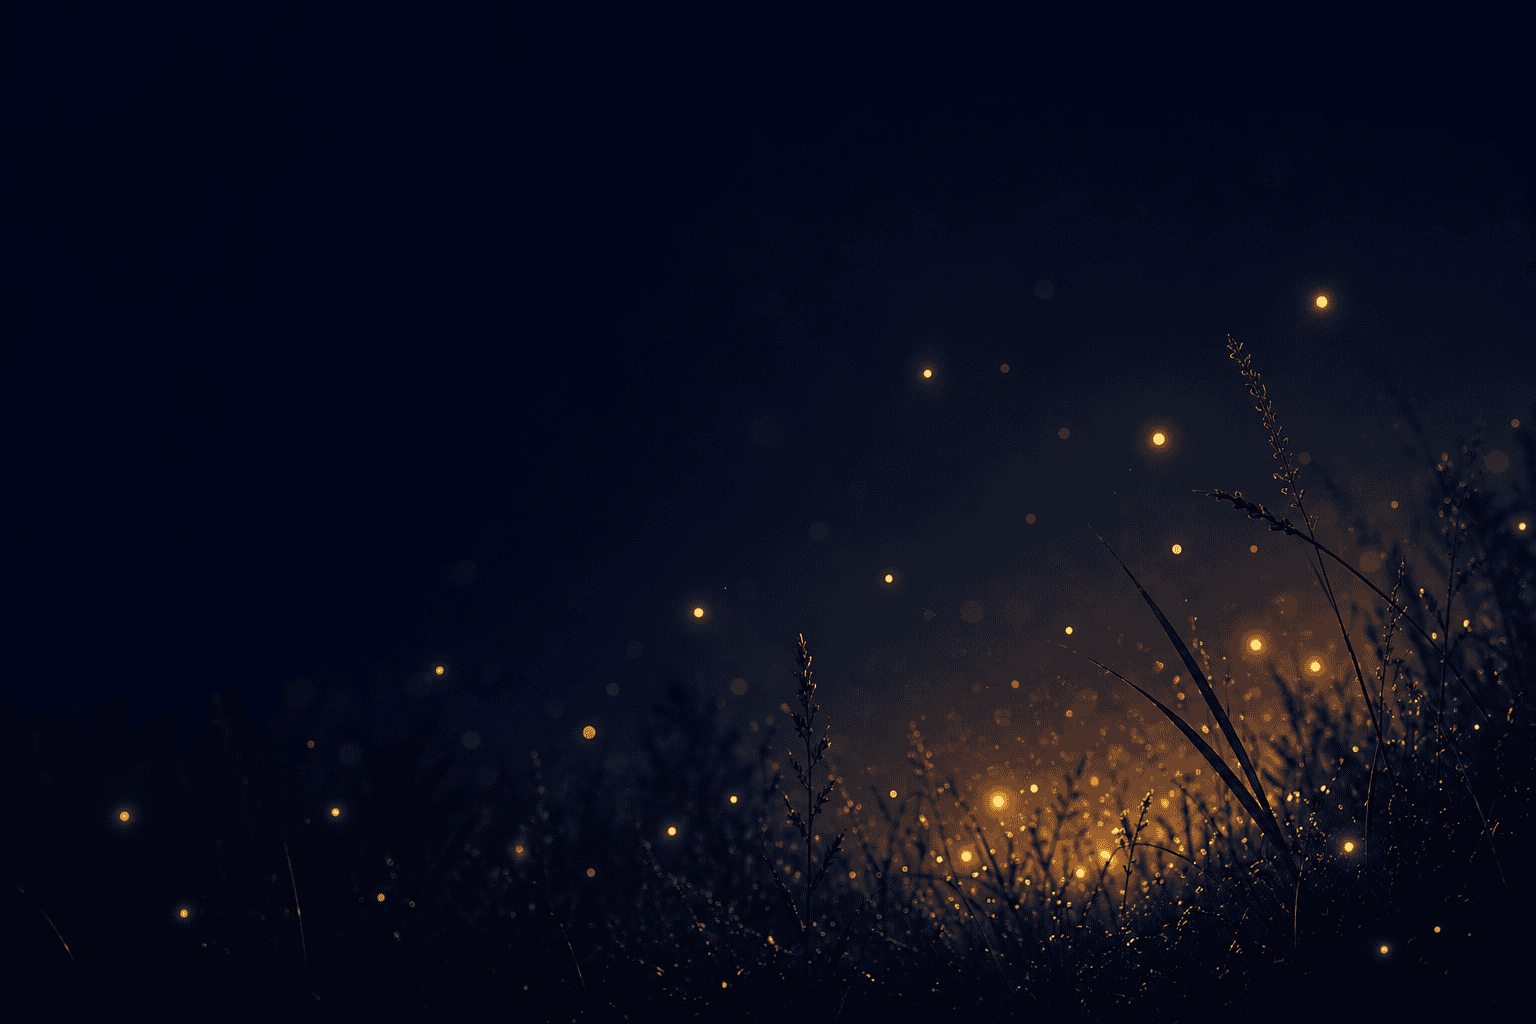
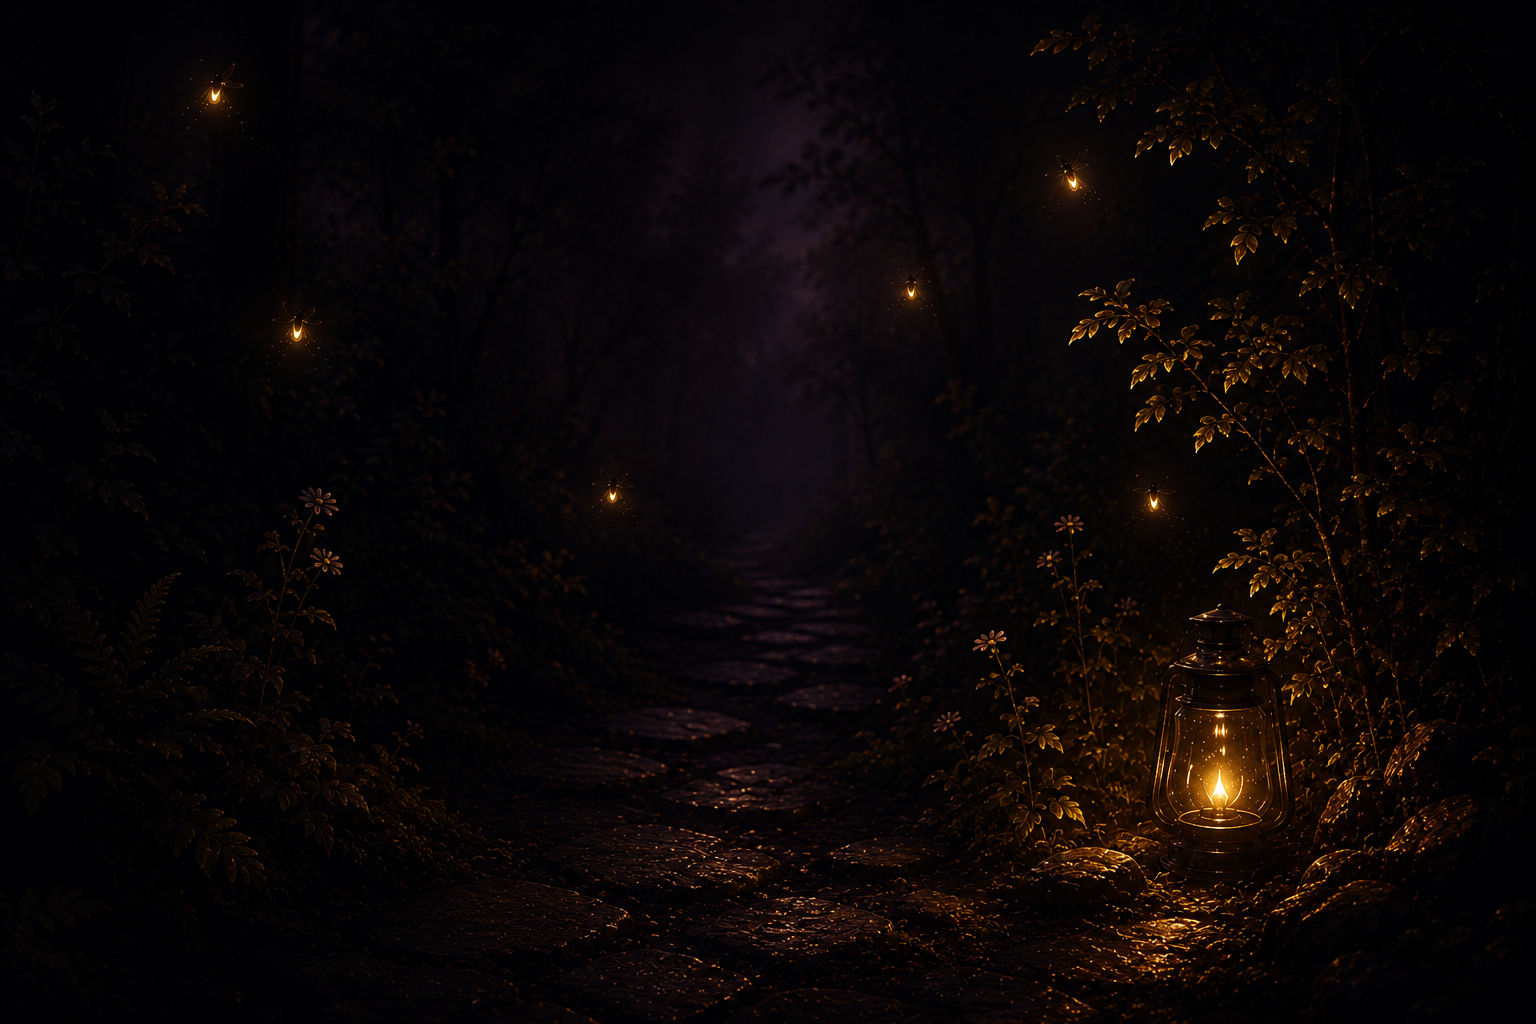
add bg image to pages

diff --git a/app/components/About.tsx b/app/components/About.tsx
@@ -1,17 +1,8 @@
 "use client";
 
 import Box from "@mui/material/Box";
-import Chip from "@mui/material/Chip";
 import Container from "@mui/material/Container";
 import Typography from "@mui/material/Typography";
-
-
-const skills = [
-  "Web Design",
-  "Branding",
-  "Google Business Profiles",
-  "Ongoing Support"
-];
 
 export default function About() {
   return (
@@ -51,34 +42,9 @@ export default function About() {
           Beautiful websites backed by strategy and support
         </Typography>
 
-        <Box
-          className="reveal"
-          style={{ transitionDelay: "0.2s" }}
-          sx={{
-            display: "flex",
-            flexWrap: "wrap",
-            gap: 1.25,
-            mb: 4,
-            justifyContent: "center",
-          }}
-        >
-          {skills.map((skill) => (
-            <Chip
-              key={skill}
-              label={skill}
-              variant="outlined"
-              sx={{
-                height: 26,
-                borderWidth: "0.5px",
-                "& .MuiChip-label": { px: 1.25 },
-              }}
-            />
-          ))}
-        </Box>
-
         <Typography
           className="reveal"
-          style={{ transitionDelay: "0.3s" }}
+          style={{ transitionDelay: "0.2s" }}
           sx={{
             color: "grey.300",
             fontSize: { xs: "17px", md: "21px" },

diff --git a/app/contact/page.tsx b/app/contact/page.tsx
@@ -12,6 +12,7 @@ import AccessTimeOutlined from "@mui/icons-material/AccessTimeOutlined";
 import EmailOutlined from "@mui/icons-material/EmailOutlined";
 import Footer from "../components/Footer";
 import ResponsiveMenu from "../components/ResponsiveMenu";
+import leafBg from "../images/leaf-bg.webp";
 
 const EMAIL_REGEX = /^[^\s@]+@[^\s@]+\.[^\s@]+$/;
 
@@ -133,6 +134,24 @@ export default function ContactPage() {
           },
         }}
       >
+        {/* Ambient leaf shadow texture */}
+        <Box
+          aria-hidden
+          sx={{
+            position: "absolute",
+            inset: 0,
+            backgroundImage: `url(${leafBg.src})`,
+            backgroundSize: "cover",
+            backgroundPosition: "center 35%",
+            opacity: { xs: 0.14, md: 0.2 },
+            maskImage:
+              "linear-gradient(180deg, transparent 0%, black 25%, black 75%, transparent 100%)",
+            WebkitMaskImage:
+              "linear-gradient(180deg, transparent 0%, black 25%, black 75%, transparent 100%)",
+            pointerEvents: "none",
+          }}
+        />
+
         <Container sx={{ maxWidth: "680px !important", position: "relative", zIndex: 1 }}>
           <Typography
             component="span"

diff --git a/app/services/business-essentials/page.tsx b/app/services/business-essentials/page.tsx
@@ -14,6 +14,7 @@ import ResponsiveMenu from "../../components/ResponsiveMenu";
 import Footer from "../../components/Footer";
 import SectionDivider from "../../components/SectionDivider";
 import { pageMetadata } from "../../lib/seo";
+import leafBg from "../../images/leaf-bg.webp";
 
 export const metadata: Metadata = pageMetadata({
   title: "Business Essentials for Small Businesses",
@@ -118,6 +119,24 @@ export default function PromotionalMaterialsPage() {
           },
         }}
       >
+        {/* Ambient leaf shadow texture */}
+        <Box
+          aria-hidden
+          sx={{
+            position: "absolute",
+            inset: 0,
+            backgroundImage: `url(${leafBg.src})`,
+            backgroundSize: "cover",
+            backgroundPosition: "center 35%",
+            opacity: { xs: 0.14, md: 0.2 },
+            maskImage:
+              "linear-gradient(180deg, transparent 0%, black 25%, black 75%, transparent 100%)",
+            WebkitMaskImage:
+              "linear-gradient(180deg, transparent 0%, black 25%, black 75%, transparent 100%)",
+            pointerEvents: "none",
+          }}
+        />
+
         <Container sx={{ maxWidth: "900px !important", position: "relative", zIndex: 1 }}>
           <Link
             href="/#services"

diff --git a/app/services/logo-branding/page.tsx b/app/services/logo-branding/page.tsx
@@ -14,6 +14,7 @@ import ResponsiveMenu from "../../components/ResponsiveMenu";
 import Footer from "../../components/Footer";
 import SectionDivider from "../../components/SectionDivider";
 import { pageMetadata } from "../../lib/seo";
+import leafBg from "../../images/leaf-bg.webp";
 
 export const metadata: Metadata = pageMetadata({
   title: "Logo Design & Branding for Small Businesses",
@@ -118,6 +119,24 @@ export default function LogoBrandingPage() {
           },
         }}
       >
+        {/* Ambient leaf shadow texture */}
+        <Box
+          aria-hidden
+          sx={{
+            position: "absolute",
+            inset: 0,
+            backgroundImage: `url(${leafBg.src})`,
+            backgroundSize: "cover",
+            backgroundPosition: "center 35%",
+            opacity: { xs: 0.14, md: 0.2 },
+            maskImage:
+              "linear-gradient(180deg, transparent 0%, black 25%, black 75%, transparent 100%)",
+            WebkitMaskImage:
+              "linear-gradient(180deg, transparent 0%, black 25%, black 75%, transparent 100%)",
+            pointerEvents: "none",
+          }}
+        />
+
         <Container sx={{ maxWidth: "900px !important", position: "relative", zIndex: 1 }}>
           <Link
             href="/#services"

diff --git a/app/services/page.tsx b/app/services/page.tsx
@@ -10,6 +10,7 @@ import Footer from "../components/Footer";
 import ResponsiveMenu from "../components/ResponsiveMenu";
 import SectionDivider from "../components/SectionDivider";
 import { pageMetadata } from "../lib/seo";
+import leafBg from "../images/leaf-bg.webp";
 
 export const metadata: Metadata = pageMetadata({
   title: "Web Design & Branding Services for Small Businesses",
@@ -81,6 +82,24 @@ export default function ServicesPage() {
           },
         }}
       >
+        {/* Ambient leaf shadow texture */}
+        <Box
+          aria-hidden
+          sx={{
+            position: "absolute",
+            inset: 0,
+            backgroundImage: `url(${leafBg.src})`,
+            backgroundSize: "cover",
+            backgroundPosition: "center 35%",
+            opacity: { xs: 0.14, md: 0.2 },
+            maskImage:
+              "linear-gradient(180deg, transparent 0%, black 25%, black 75%, transparent 100%)",
+            WebkitMaskImage:
+              "linear-gradient(180deg, transparent 0%, black 25%, black 75%, transparent 100%)",
+            pointerEvents: "none",
+          }}
+        />
+
         <Container sx={{ maxWidth: "900px !important", position: "relative", zIndex: 1 }}>
           <Typography
             component="span"

diff --git a/app/services/websites/page.tsx b/app/services/websites/page.tsx
@@ -14,6 +14,7 @@ import ResponsiveMenu from "../../components/ResponsiveMenu";
 import Footer from "../../components/Footer";
 import SectionDivider from "../../components/SectionDivider";
 import { pageMetadata } from "../../lib/seo";
+import leafBg from "../../images/leaf-bg.webp";
 
 export const metadata: Metadata = pageMetadata({
   title: "Custom Website Design for Small Businesses",
@@ -113,6 +114,24 @@ export default function WebsitesPage() {
           },
         }}
       >
+        {/* Ambient leaf shadow texture */}
+        <Box
+          aria-hidden
+          sx={{
+            position: "absolute",
+            inset: 0,
+            backgroundImage: `url(${leafBg.src})`,
+            backgroundSize: "cover",
+            backgroundPosition: "center 35%",
+            opacity: { xs: 0.14, md: 0.2 },
+            maskImage:
+              "linear-gradient(180deg, transparent 0%, black 25%, black 75%, transparent 100%)",
+            WebkitMaskImage:
+              "linear-gradient(180deg, transparent 0%, black 25%, black 75%, transparent 100%)",
+            pointerEvents: "none",
+          }}
+        />
+
         <Container sx={{ maxWidth: "900px !important", position: "relative", zIndex: 1 }}>
           <Link
             href="/#services"

diff --git a/app/work/page.tsx b/app/work/page.tsx
@@ -9,6 +9,7 @@ import ResponsiveMenu from "../components/ResponsiveMenu";
 import SectionDivider from "../components/SectionDivider";
 import { featuredProjects } from "../data/featuredProjects";
 import { pageMetadata } from "../lib/seo";
+import leafBg from "../images/leaf-bg.webp";
 
 export const metadata: Metadata = pageMetadata({
   title: "Small Business Website & Branding Portfolio",
@@ -47,6 +48,24 @@ export default function WorkPage() {
           },
         }}
       >
+        {/* Ambient leaf shadow texture */}
+        <Box
+          aria-hidden
+          sx={{
+            position: "absolute",
+            inset: 0,
+            backgroundImage: `url(${leafBg.src})`,
+            backgroundSize: "cover",
+            backgroundPosition: "center 35%",
+            opacity: { xs: 0.14, md: 0.2 },
+            maskImage:
+              "linear-gradient(180deg, transparent 0%, black 25%, black 75%, transparent 100%)",
+            WebkitMaskImage:
+              "linear-gradient(180deg, transparent 0%, black 25%, black 75%, transparent 100%)",
+            pointerEvents: "none",
+          }}
+        />
+
         <Container sx={{ maxWidth: "900px !important", position: "relative", zIndex: 1 }}>
           <Typography
             component="span"